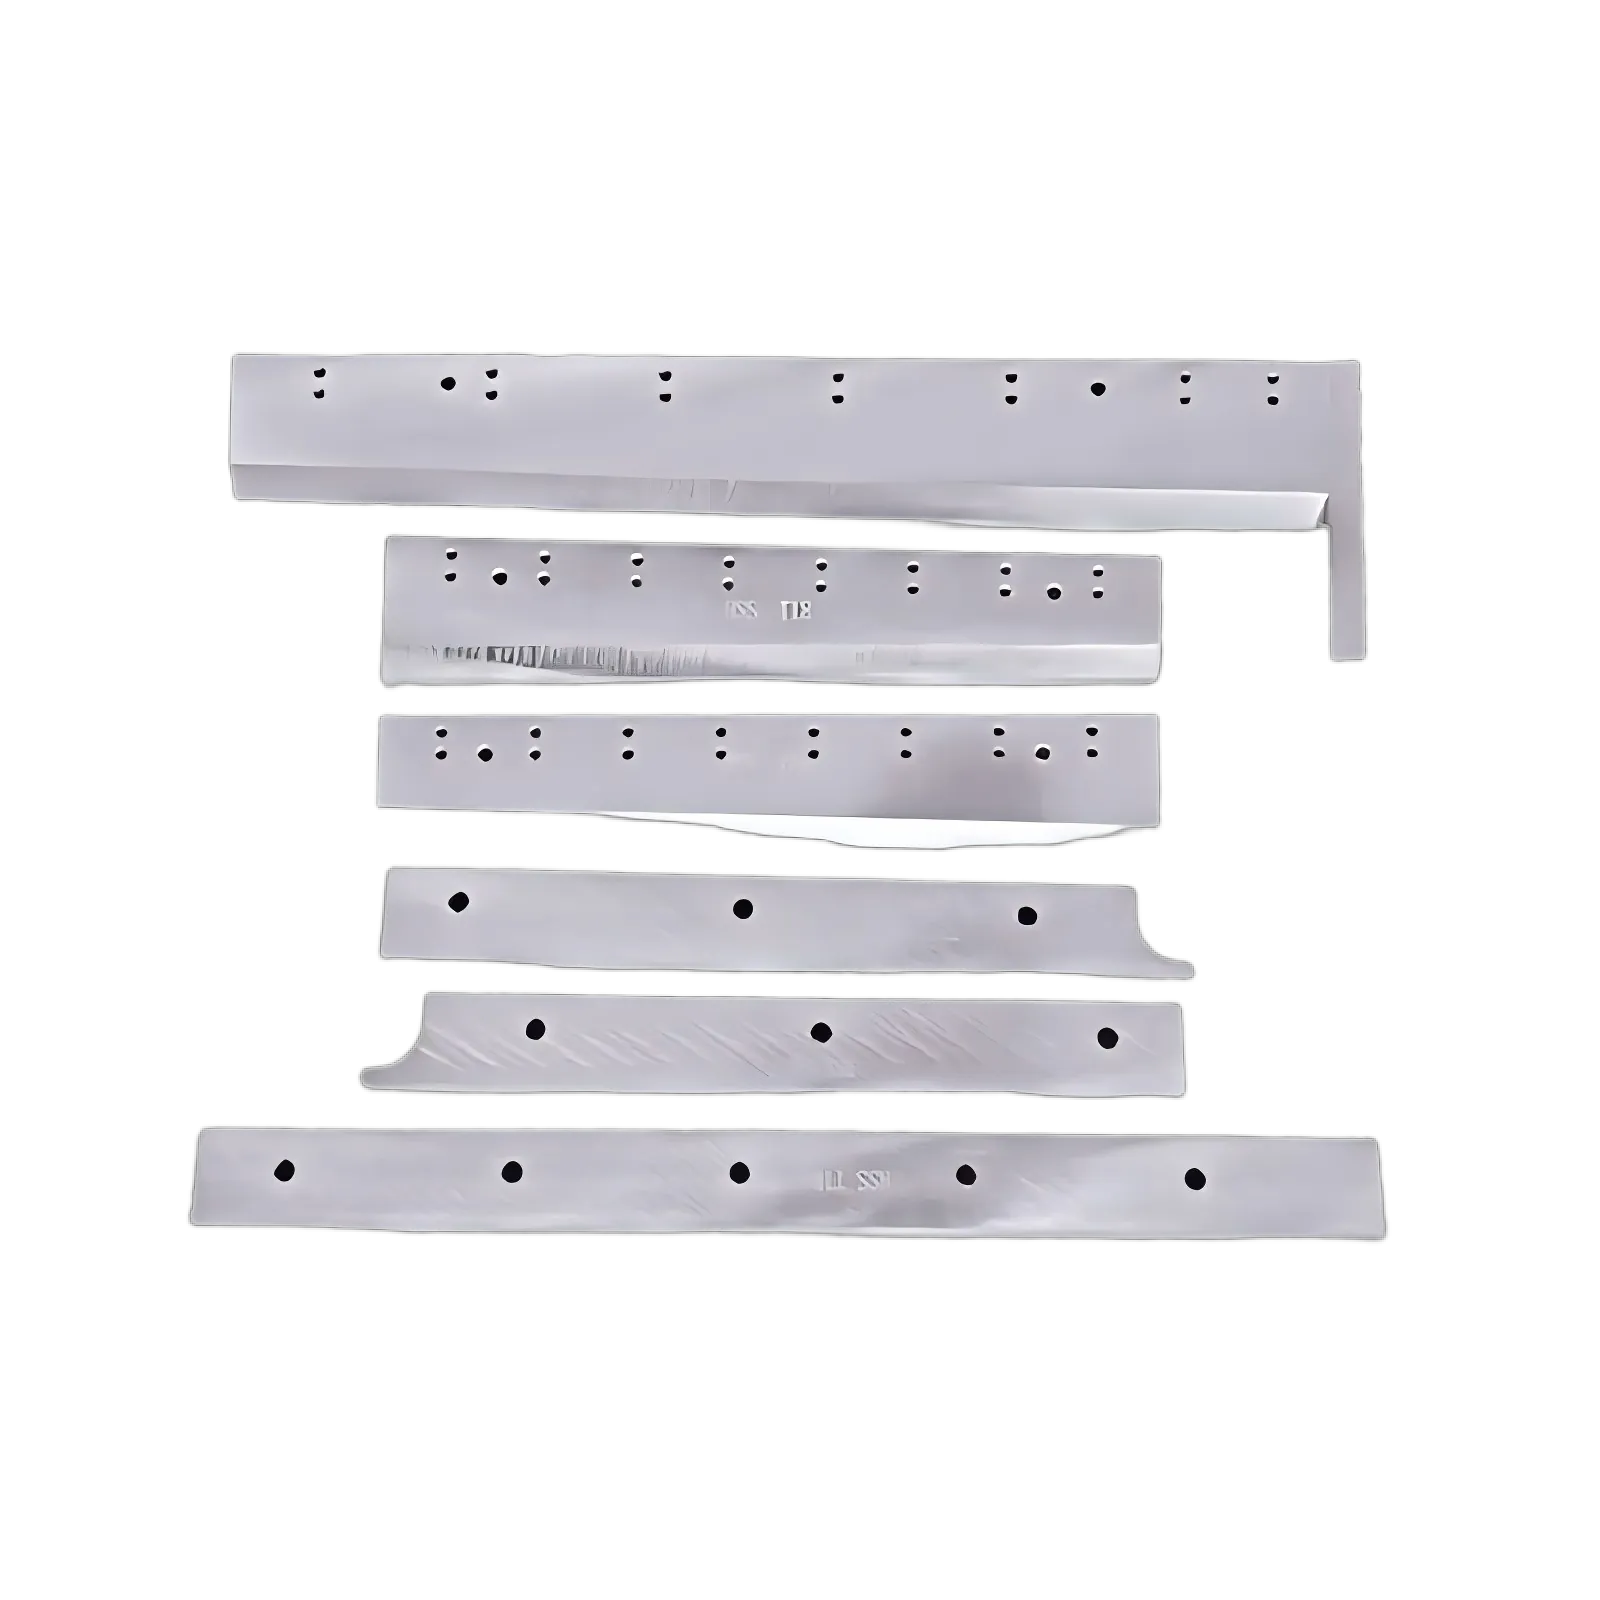
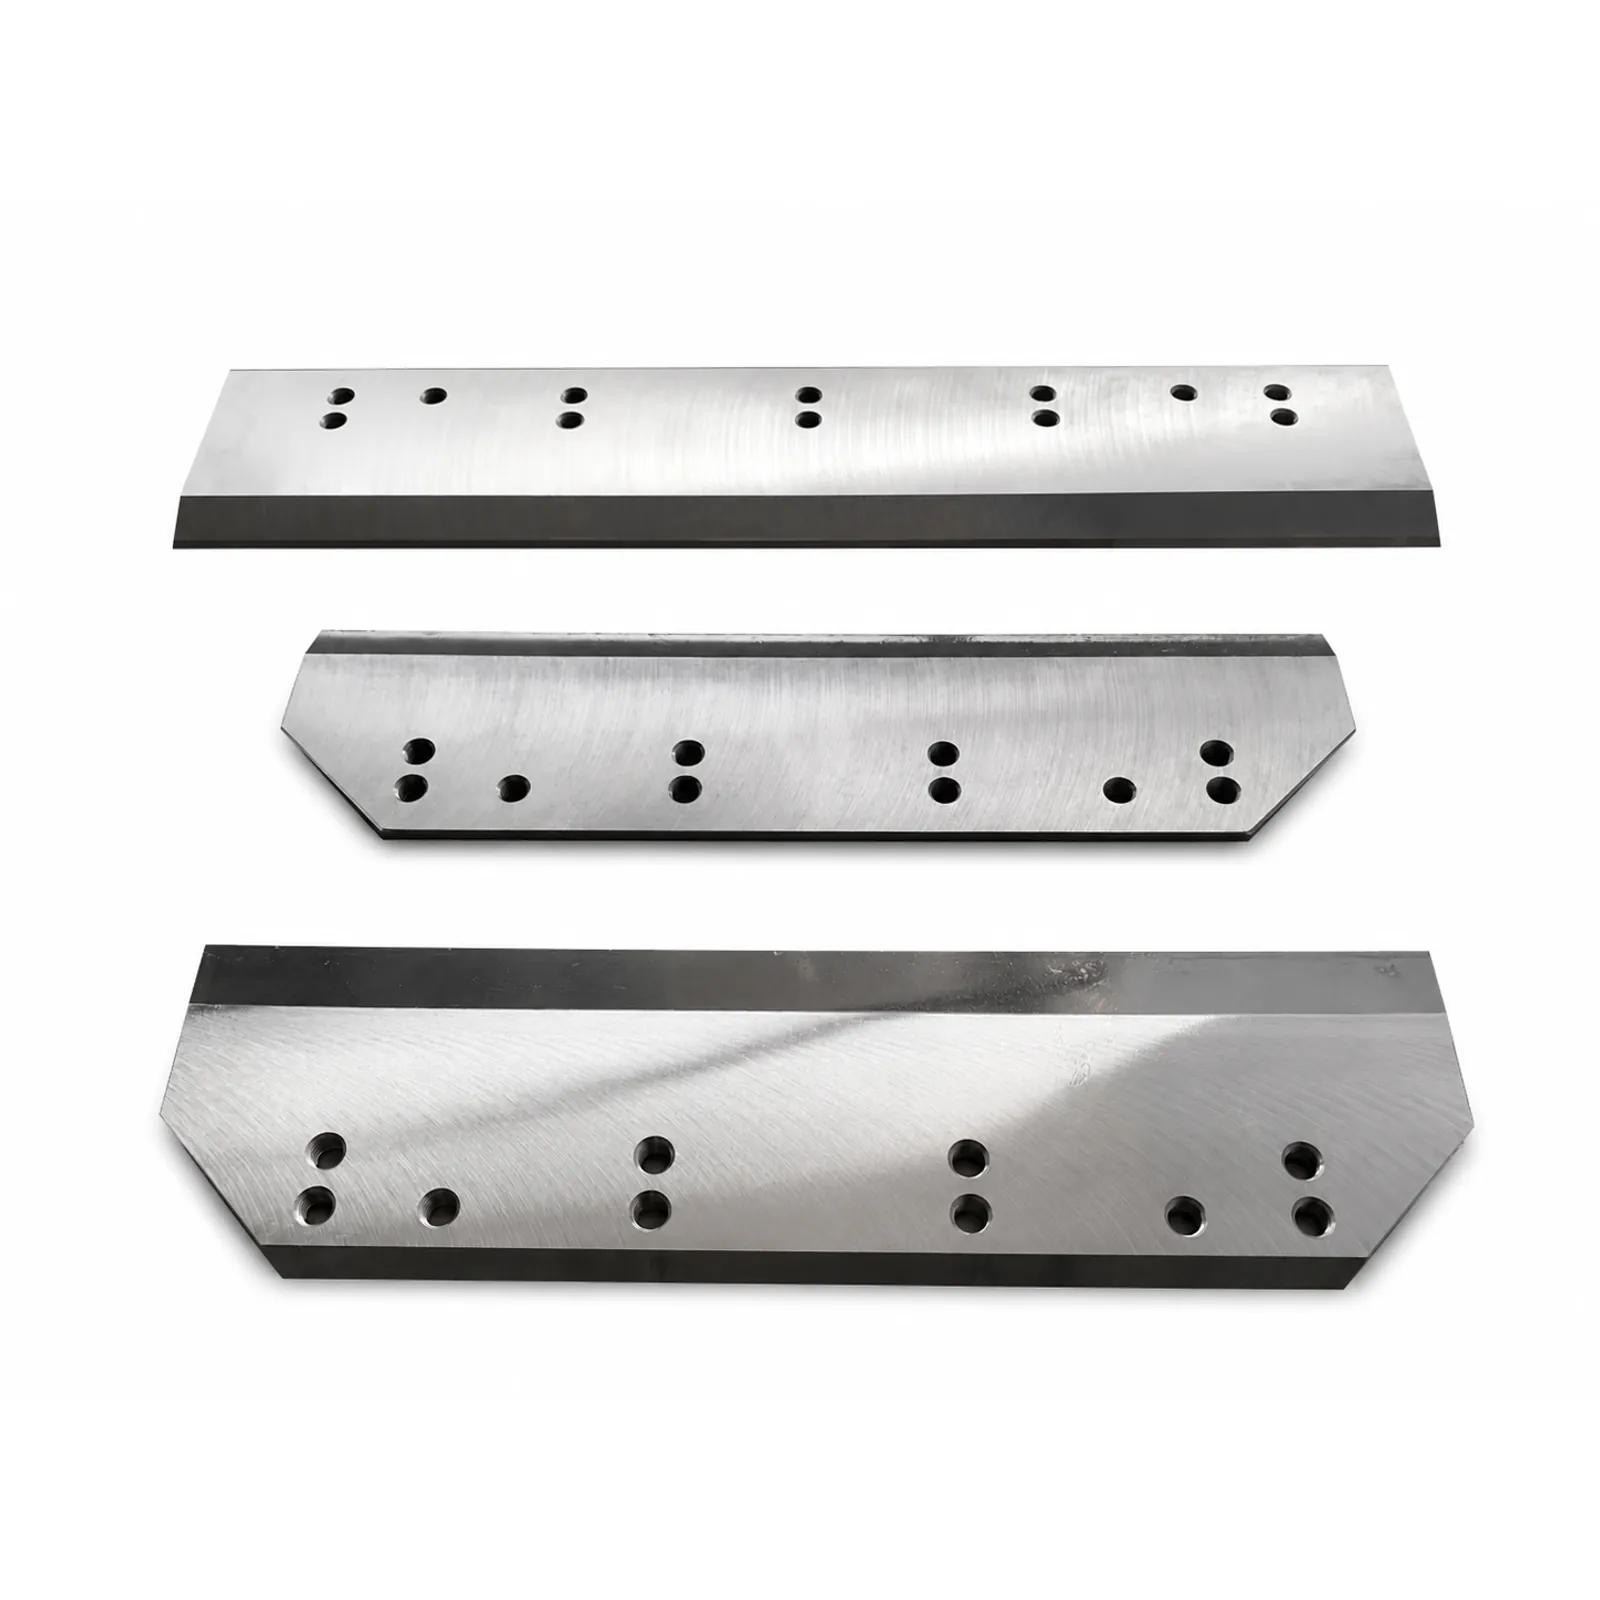
feat(news): add custom-length guillotine paper cutter blades article; swap three-knife-trimmer-blades cover photo
New technical guide on custom/non-standard-length guillotine blade fabrication,
distinct from the existing material-comparison and general selection guides.
Also swaps in a new cover photo for three-knife-trimmer-blades across all locales.

diff --git a/client/src/data/news.ts b/client/src/data/news.ts
@@ -85,6 +85,92 @@ function sortDispatchesByDate(
 
 export const ALL_DISPATCHES: DispatchArticle[] = [
   {
+    id: "custom-length-guillotine-paper-cutter-blades",
+    tag: "TECHNICAL GUIDE",
+    date: "23.JUL.2026",
+    title:
+      "Your Guillotine Cutter Isn't a Polar 115 — So Why Are You Still Ordering Catalog-Length Blades?",
+    excerpt:
+      "Stock guillotine blades run 450–2,050 mm in fixed increments. When your cutter's bed doesn't match, here's what actually gets copied from a sample — bevel angle, hole pattern, and thickness tolerance across a batch.",
+    image: "/images/news/custom-length-guillotine-blades-cover.webp",
+    readTime: "3 MIN",
+    seoTitle:
+      "Custom-Length Guillotine Paper Cutter Blades: Matching Non-Standard Cutters",
+    metaDescription:
+      "Guillotine cutter doesn't match a catalog blade length? Learn how custom-length paper cutter blades are matched from a sample — bevel angle, hole pattern, and thickness tolerance.",
+    keywords:
+      "custom guillotine paper cutter blades, non-standard length paper cutter blade, custom length guillotine knife, OEM guillotine blade matching, paper cutter blade bevel angle, guillotine blade hole pattern, Polar replacement blade, Wohlenberg guillotine blade custom",
+    relatedProductIds: ["paper-cutting-blades"],
+    content: [
+      {
+        type: "paragraph",
+        value:
+          "A finishing house in Vietnam emailed us last month about a 1,340 mm bed guillotine — a regional brand, rebuilt twice, long out of the original manufacturer's parts catalog. Every stock blade they'd found online came in 1,300 mm or 1,400 mm. Neither fits a 1,340 mm bed without shimming the clamp bar or grinding the blade down and throwing off the bevel geometry in the process. That's not a rare problem. Most guillotine cutters running past their second decade have been re-bedded, retrofitted with a different clamp system, or built by a regional manufacturer whose spec sheet never made it past a local dealer network.",
+      },
+      {
+        type: "paragraph",
+        value:
+          "Stock replacement [guillotine paper cutter blades](/products/paper-cutting-blades) cover the common range — 450 mm to 2,050 mm, in the increments Polar, Wohlenberg, and Perfecta use. Outside that range, or on a hole pattern that doesn't match a listed catalog part, the blade has to be built to your machine, not picked off a shelf.",
+      },
+      {
+        type: "h2",
+        value: "What Actually Gets Matched",
+      },
+      {
+        type: "paragraph",
+        value:
+          "Length and width are the easy part. The variables that actually decide whether a custom blade performs are the ones a distributor can't quote from a part number.",
+      },
+      {
+        type: "image",
+        value: "/images/news/custom-length-guillotine-blades-shapes.webp",
+      },
+      {
+        type: "paragraph",
+        value:
+          "Bevel angle and face come first. Standard guillotine geometry is a 21° single bevel, but older, rebuilt, or regionally-built cutters sometimes run a different angle, or a double bevel left over from a prior modification. Copy the wrong one and the blade rides the clamp bar wrong, producing a tapered edge instead of a square cut.",
+      },
+      {
+        type: "paragraph",
+        value:
+          "Hole pattern and back-edge profile come next. Mounting hole pitch, diameter, and countersink depth vary machine to machine, and even between two units of the same model built five years apart. We wire-EDM the holes off a sample blade or a dimensioned drawing rather than guessing from a nominal spec.",
+      },
+      {
+        type: "paragraph",
+        value:
+          "Thickness tolerance across a set matters most when you're ordering more than one blade — spares for three sister machines, say. Edge thickness has to hold within roughly 0.05–0.1 mm across the whole batch. A blade a hair thicker than the rest sits proud against the clamp bar and takes the full load on that one edge. That's how you get premature chipping on the newest blade in a set while the older ones are still fine.",
+      },
+      {
+        type: "paragraph",
+        value:
+          "That third point is the one buyers underestimate. Matching one sample blade is straightforward. Grinding six or eight custom lengths on the same setup and checking them against each other is a different quality bar than six individually-approximated blades that each \"look about right.\"",
+      },
+      {
+        type: "h2",
+        value: "What to Send Us",
+      },
+      {
+        type: "paragraph",
+        value:
+          "The fastest path to an accurate custom blade is a worn sample, not a drawing from memory. If the original blade still exists — even badly worn — we pull length, width, bevel angle, hole pitch, and back-profile directly off it. No sample, no problem: send bed length, clamp bar thickness, and photos of the hole pattern with a scale reference next to it, and we confirm dimensions back before any steel gets cut. Custom lengths, hole patterns, and back-edge profiles built to drawing typically ship within 7 working days.",
+      },
+      {
+        type: "image",
+        value: "/images/news/custom-length-guillotine-blades-production.webp",
+      },
+      {
+        type: "paragraph",
+        value:
+          "Material selection doesn't change for custom work. The same T10, M2/SKH-51 HSS, and tungsten-carbide-tipped options apply, picked by substrate and cut volume, not by how standard the length is. What changes is that nobody in the supply chain gets to approximate.",
+      },
+      {
+        type: "callout",
+        value:
+          "Send us your machine's bed length, clamp bar thickness, and a photo of the hole pattern — or a worn sample if you still have one — and we'll confirm the blade spec before cutting any steel. [Talk to our engineering team](/contact).",
+      },
+    ],
+  },
+  {
     id: "mixer-wear-parts-oem-matching",
     tag: "TECHNICAL GUIDE",
     date: "22.JUL.2026",

diff --git a/client/src/data/blades.ts b/client/src/data/blades.ts
@@ -2961,11 +2961,11 @@ export const blades: Blade[] = [
     badge: "OEM Fit",
     badgeColor: "blue",
     image:
-      "/images/products/paper-cutting-blades/muller-martini-trimmer-blades-00.webp",
-    gallery: [
-      "/images/products/paper-cutting-blades/muller-martini-trimmer-blades-00.webp",
-      "/images/products/paper-cutting-blades/muller-martini-trimmer-blades-01.webp",
       "/images/products/paper-cutting-blades/muller-martini-trimmer-blades-02.webp",
+    gallery: [
+      "/images/products/paper-cutting-blades/muller-martini-trimmer-blades-02.webp",
+      "/images/products/paper-cutting-blades/muller-martini-trimmer-blades-01.webp",
+      "/images/products/paper-cutting-blades/muller-martini-trimmer-blades-00.webp",
       "/images/products/paper-cutting-blades/muller-martini-trimmer-blades-03.webp",
       "/images/products/paper-cutting-blades/muller-martini-trimmer-blades-04.webp",
     ],

diff --git a/client/src/data/locales/blades.ar.ts b/client/src/data/locales/blades.ar.ts
@@ -2631,11 +2631,11 @@ export const blades: Blade[] = [
     "categoryDisplay": "سكاكين تجليد الكتب",
     "badge": "صالح OEM",
     "badgeColor": "blue",
-    "image": "/images/products/paper-cutting-blades/muller-martini-trimmer-blades-00.webp",
+    "image": "/images/products/paper-cutting-blades/muller-martini-trimmer-blades-02.webp",
     "gallery": [
-      "/images/products/paper-cutting-blades/muller-martini-trimmer-blades-00.webp",
-      "/images/products/paper-cutting-blades/muller-martini-trimmer-blades-01.webp",
       "/images/products/paper-cutting-blades/muller-martini-trimmer-blades-02.webp",
+      "/images/products/paper-cutting-blades/muller-martini-trimmer-blades-01.webp",
+      "/images/products/paper-cutting-blades/muller-martini-trimmer-blades-00.webp",
       "/images/products/paper-cutting-blades/muller-martini-trimmer-blades-03.webp",
       "/images/products/paper-cutting-blades/muller-martini-trimmer-blades-04.webp"
     ],

diff --git a/client/src/data/locales/blades.es.ts b/client/src/data/locales/blades.es.ts
@@ -2631,11 +2631,11 @@ export const blades: Blade[] = [
     "categoryDisplay": "Cuchillos de encuadernación",
     "badge": "Ajuste OEM",
     "badgeColor": "blue",
-    "image": "/images/products/paper-cutting-blades/muller-martini-trimmer-blades-00.webp",
+    "image": "/images/products/paper-cutting-blades/muller-martini-trimmer-blades-02.webp",
     "gallery": [
-      "/images/products/paper-cutting-blades/muller-martini-trimmer-blades-00.webp",
-      "/images/products/paper-cutting-blades/muller-martini-trimmer-blades-01.webp",
       "/images/products/paper-cutting-blades/muller-martini-trimmer-blades-02.webp",
+      "/images/products/paper-cutting-blades/muller-martini-trimmer-blades-01.webp",
+      "/images/products/paper-cutting-blades/muller-martini-trimmer-blades-00.webp",
       "/images/products/paper-cutting-blades/muller-martini-trimmer-blades-03.webp",
       "/images/products/paper-cutting-blades/muller-martini-trimmer-blades-04.webp"
     ],

diff --git a/client/src/data/locales/blades.fr.ts b/client/src/data/locales/blades.fr.ts
@@ -2631,11 +2631,11 @@ export const blades: Blade[] = [
     "categoryDisplay": "Couteaux de reliure",
     "badge": "OEM Fit",
     "badgeColor": "blue",
-    "image": "/images/products/paper-cutting-blades/muller-martini-trimmer-blades-00.webp",
+    "image": "/images/products/paper-cutting-blades/muller-martini-trimmer-blades-02.webp",
     "gallery": [
-      "/images/products/paper-cutting-blades/muller-martini-trimmer-blades-00.webp",
-      "/images/products/paper-cutting-blades/muller-martini-trimmer-blades-01.webp",
       "/images/products/paper-cutting-blades/muller-martini-trimmer-blades-02.webp",
+      "/images/products/paper-cutting-blades/muller-martini-trimmer-blades-01.webp",
+      "/images/products/paper-cutting-blades/muller-martini-trimmer-blades-00.webp",
       "/images/products/paper-cutting-blades/muller-martini-trimmer-blades-03.webp",
       "/images/products/paper-cutting-blades/muller-martini-trimmer-blades-04.webp"
     ],

diff --git a/client/src/data/locales/blades.ru.ts b/client/src/data/locales/blades.ru.ts
@@ -2631,11 +2631,11 @@ export const blades: Blade[] = [
     "categoryDisplay": "Переплетные ножи",
     "badge": "OEM Fit",
     "badgeColor": "blue",
-    "image": "/images/products/paper-cutting-blades/muller-martini-trimmer-blades-00.webp",
+    "image": "/images/products/paper-cutting-blades/muller-martini-trimmer-blades-02.webp",
     "gallery": [
-      "/images/products/paper-cutting-blades/muller-martini-trimmer-blades-00.webp",
-      "/images/products/paper-cutting-blades/muller-martini-trimmer-blades-01.webp",
       "/images/products/paper-cutting-blades/muller-martini-trimmer-blades-02.webp",
+      "/images/products/paper-cutting-blades/muller-martini-trimmer-blades-01.webp",
+      "/images/products/paper-cutting-blades/muller-martini-trimmer-blades-00.webp",
       "/images/products/paper-cutting-blades/muller-martini-trimmer-blades-03.webp",
       "/images/products/paper-cutting-blades/muller-martini-trimmer-blades-04.webp"
     ],

diff --git a/client/src/data/locales/blades.vi.ts b/client/src/data/locales/blades.vi.ts
@@ -2631,11 +2631,11 @@ export const blades: Blade[] = [
     "categoryDisplay": "Dao đóng sách",
     "badge": "OEM phù hợp",
     "badgeColor": "blue",
-    "image": "/images/products/paper-cutting-blades/muller-martini-trimmer-blades-00.webp",
+    "image": "/images/products/paper-cutting-blades/muller-martini-trimmer-blades-02.webp",
     "gallery": [
-      "/images/products/paper-cutting-blades/muller-martini-trimmer-blades-00.webp",
-      "/images/products/paper-cutting-blades/muller-martini-trimmer-blades-01.webp",
       "/images/products/paper-cutting-blades/muller-martini-trimmer-blades-02.webp",
+      "/images/products/paper-cutting-blades/muller-martini-trimmer-blades-01.webp",
+      "/images/products/paper-cutting-blades/muller-martini-trimmer-blades-00.webp",
       "/images/products/paper-cutting-blades/muller-martini-trimmer-blades-03.webp",
       "/images/products/paper-cutting-blades/muller-martini-trimmer-blades-04.webp"
     ],

diff --git a/article-custom-length-guillotine-paper-cutter-blades.md b/article-custom-length-guillotine-paper-cutter-blades.md
@@ -1,0 +1,52 @@
+# Your Guillotine Cutter Isn't a Polar 115 — So Why Are You Still Ordering Catalog-Length Blades?
+
+A finishing house in Vietnam emailed us last month about a 1,340 mm bed guillotine — a regional brand, rebuilt twice, long out of the original manufacturer's parts catalog. Every stock blade they'd found online came in 1,300 mm or 1,400 mm. Neither fits a 1,340 mm bed without shimming the clamp bar or grinding the blade down and throwing off the bevel geometry in the process. That's not a rare problem. Most guillotine cutters running past their second decade have been re-bedded, retrofitted with a different clamp system, or built by a regional manufacturer whose spec sheet never made it past a local dealer network.
+
+Stock replacement [guillotine paper cutter blades](/products/paper-cutting-blades) cover the common range — 450 mm to 2,050 mm, in the increments Polar, Wohlenberg, and Perfecta use. Outside that range, or on a hole pattern that doesn't match a listed catalog part, the blade has to be built to your machine, not picked off a shelf.
+
+## What Actually Gets Matched
+
+Length and width are the easy part. The variables that actually decide whether a custom blade performs are the ones a distributor can't quote from a part number:
+
+- **Bevel angle and face.** Standard guillotine geometry is a 21° single bevel; older, rebuilt, or regionally-built cutters sometimes run a different angle or a double bevel left over from a prior modification. Copy the wrong one and the blade rides the clamp bar wrong, producing a tapered edge instead of a square cut.
+- **Hole pattern and back-edge profile.** Mounting hole pitch, diameter, and countersink depth vary machine to machine, and even between two units of the same model built five years apart. We wire-EDM the holes off a sample blade or a dimensioned drawing rather than guessing from a nominal spec.
+- **Thickness tolerance across a set.** Order more than one blade — spares for three sister machines, say — and edge thickness has to hold within roughly 0.05–0.1 mm across the whole batch. A blade a hair thicker than the rest sits proud against the clamp bar and takes the full load on that one edge. That's how you get premature chipping on the newest blade in a set while the older ones are still fine.
+
+That third point is the one buyers underestimate. Matching one sample blade is straightforward. Grinding six or eight custom lengths on the same setup and checking them against each other is a different quality bar than six individually-approximated blades that each "look about right."
+
+## What to Send Us
+
+The fastest path to an accurate custom blade is a worn sample, not a drawing from memory. If the original blade still exists — even badly worn — we pull length, width, bevel angle, hole pitch, and back-profile directly off it. No sample, no problem: send bed length, clamp bar thickness, and photos of the hole pattern with a scale reference next to it, and we confirm dimensions back before any steel gets cut. Custom lengths, hole patterns, and back-edge profiles built to drawing typically ship within 7 working days.
+
+Material selection doesn't change for custom work. The same T10, M2/SKH-51 HSS, and tungsten-carbide-tipped options apply, picked by substrate and cut volume, not by how standard the length is. What changes is that nobody in the supply chain gets to approximate.
+
+---
+
+## Image Prompts
+
+All three images below are real factory/product photos already provided — no generation needed. Save them to `client/public/images/news/` using the filenames noted, then reference those paths in the article's frontmatter/body per the existing `news.ts` convention.
+
+### Cover image
+
+- Placement: hero / top of article
+- Type: **[Photograph — user-supplied]**
+- Source: `paper-cutting-blades-01.png` (studio shot — eight straight guillotine blades of visibly different lengths and thicknesses laid side by side on a beige background)
+- Suggested filename: `/images/news/custom-length-guillotine-blades-cover.webp`
+- Why this one: it _is_ the article's thesis at a glance — no two blades in the row are the same length, which is exactly the point about custom sizing.
+- Alt text: "Guillotine paper cutter blades of varying custom lengths and thicknesses laid out side by side"
+
+### Content image 1
+
+- Placement: under "What Actually Gets Matched"
+- Type: **[Photograph — user-supplied]**
+- Source: `paper-cutting-blades-03.png` (wall-mounted display of angled shear blades, perforating/scoring blades, circular slitter knives, and disc blades at the Sureay facility)
+- Suggested filename: `/images/news/custom-length-guillotine-blades-shapes.webp`
+- Alt text: "Wall display of custom-shaped shear, scoring, and slitter blades manufactured to different bevel and hole-pattern specifications"
+
+### Content image 2
+
+- Placement: under "What to Send Us"
+- Type: **[Photograph — user-supplied]**
+- Source: `paper-cutting-blades-02.png` (factory floor — long guillotine shear and slitter blades resting diagonally on wooden trestles, machinery visible in the background)
+- Suggested filename: `/images/news/custom-length-guillotine-blades-production.webp`
+- Alt text: "Custom-length guillotine and slitter blades on trestles at the Sureay production floor, ready for grinding"